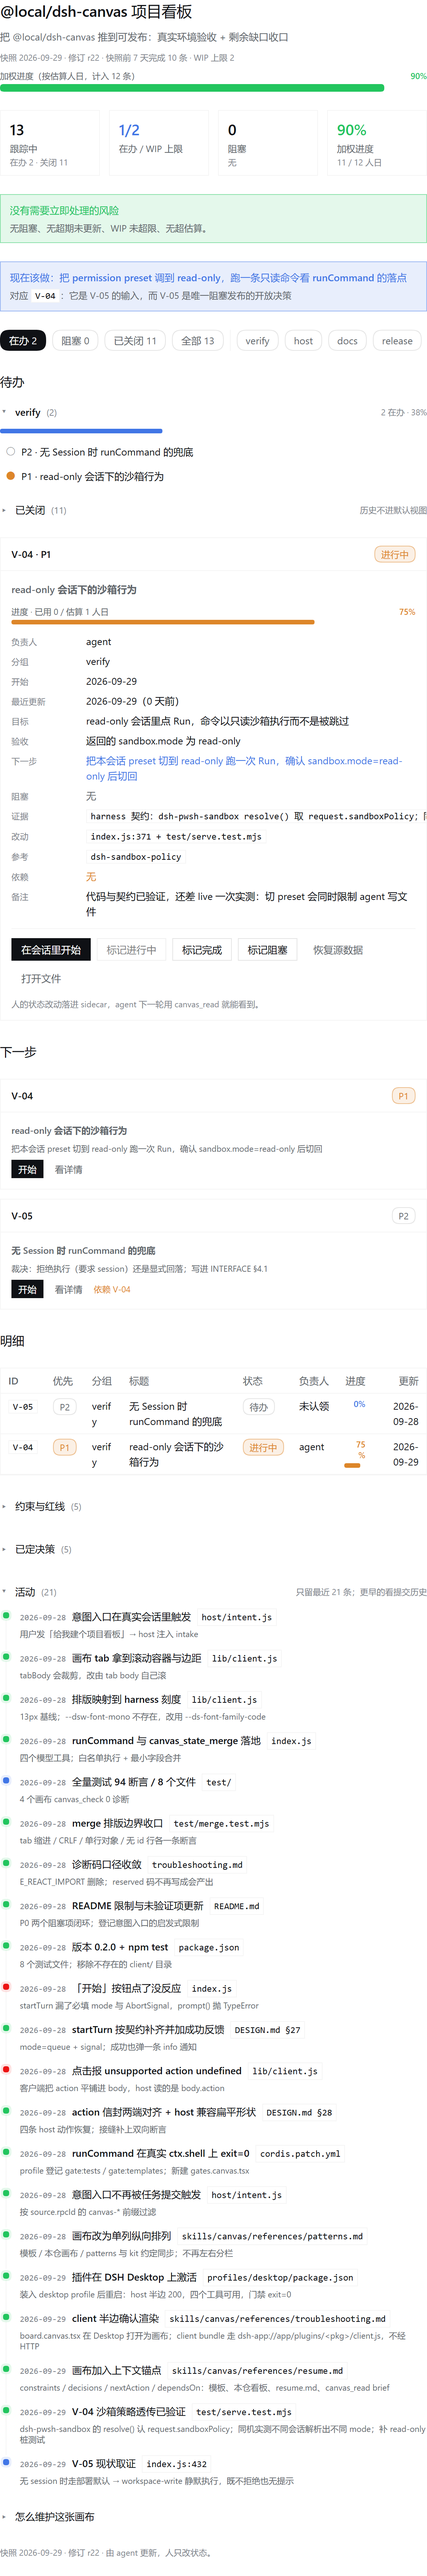
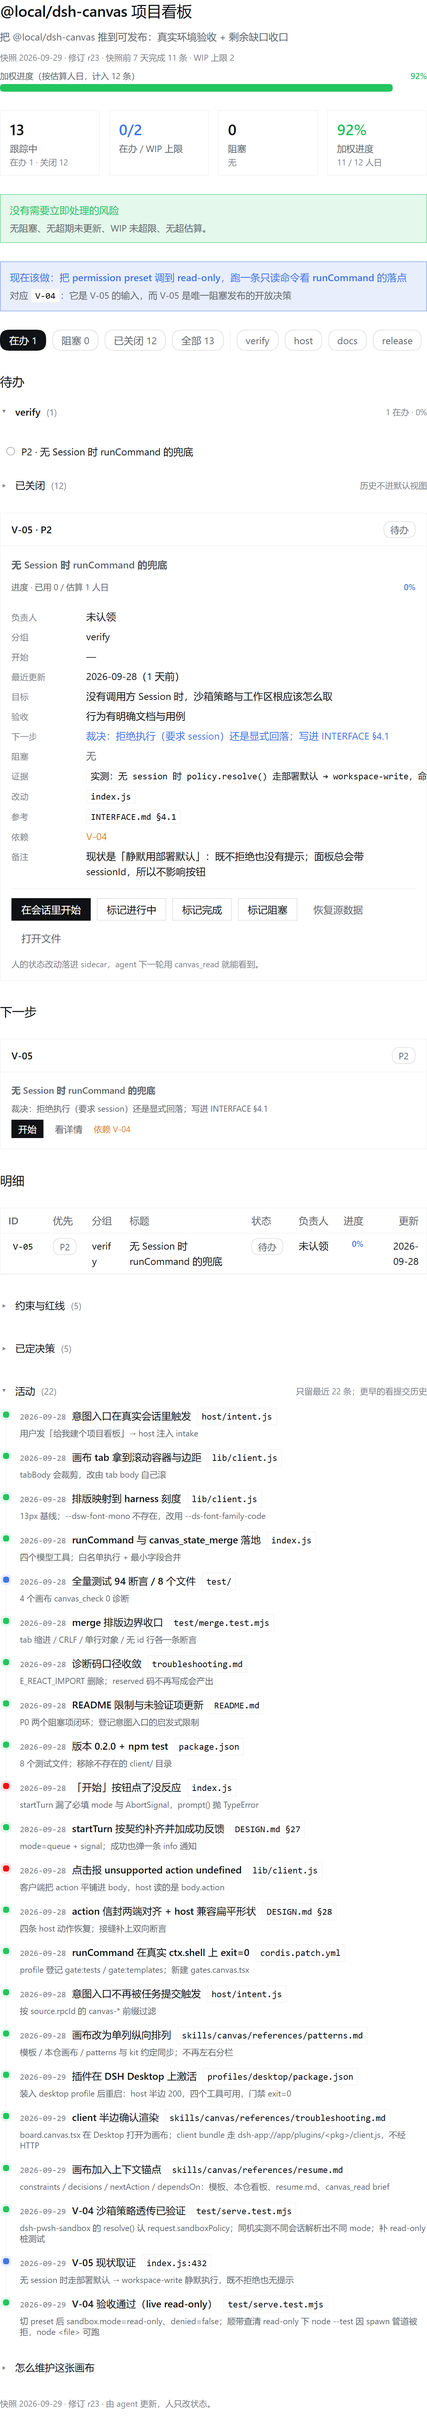
chore(board): V-04 验收通过（r23）+ 记录 read-only 沙箱边界
验收（live，非桩）：
- 把本会话 preset 切到 read-only 后，gate:templates 返回
  sandbox.mode=read-only、denied=false、ok=true、code=ran —— 命令确实被执行，不是被跳过
- 同一时刻宿主对我的文件写入报 [sandbox: file access denied under read-only mode]，
  说明插件与宿主用的是同一套会话策略，两侧一致

顺带查清一条边界（已写进 troubleshooting.md）：
- read-only 下 node --test 会 EPERM（syscall: spawn）：受限模式禁止命名管道，而测试运行器
  要 fork 子进程抓输出；这是沙箱边界，不是门禁失败
- 对照实测 node <file> 同进程直跑 exit=0，PowerShell 串多文件也能跑
- 因此把 gate:templates 的白名单命令从 node --test 改成 node（模板自检自带退出码，
  行为等价、read-only 下也能给出真实结论）；gate:tests 保持 --test
- Windows 上 stderr 的 GBK InvalidOperation + enforcement=partial 是 ACL 授权失败后降级继续

profile 改动（下次重启生效）：desktop 与 web 的 cordis.patch.yml 里 gate:templates 已改

diff --git a/board.canvas.tsx b/board.canvas.tsx
@@ -29,7 +29,7 @@ type Task = {
 export const DATA = {
   goal: "把 @local/dsh-canvas 推到可发布：真实环境验收 + 剩余缺口收口",
   asOf: "2026-09-29",
-  revision: "r22",
+  revision: "r23",
   wipLimit: 2,
   staleDays: 7,
   lanes: ["verify", "host", "docs", "release"],
@@ -99,14 +99,14 @@ export const DATA = {
     },
     {
       id: "V-04", lane: "verify", title: "read-only 会话下的沙箱行为",
-      status: "in_progress", priority: "P1", owner: "agent",
-      progress: 75, estimate: 1, actual: 0,
-      startedAt: "2026-09-29", updatedAt: "2026-09-29", completedAt: "", blocker: "",
+      status: "completed", priority: "P1", owner: "agent",
+      progress: 100, estimate: 1, actual: 1,
+      startedAt: "2026-09-29", updatedAt: "2026-09-29", completedAt: "2026-09-29", blocker: "",
       goal: "read-only 会话里点 Run，命令以只读沙箱执行而不是被跳过",
-      next: "把本会话 preset 切到 read-only 跑一次 Run，确认 sandbox.mode=read-only 后切回",
+      next: "",
       acceptance: "返回的 sandbox.mode 为 read-only",
-      evidence: "harness 契约：dsh-pwsh-sandbox resolve() 取 request.sandboxPolicy；同机实测不同会话解析出不同 mode；补 read-only 桩测试", write: "index.js:371 + test/serve.test.mjs",
-      ref: "dsh-sandbox-policy", note: "代码与契约已验证，还差 live 一次实测：切 preset 会同时限制 agent 写文件",
+      evidence: "live：会话切 read-only 后 gate:templates 返回 sandbox.mode=read-only、denied=false，命令真的起了（exit=1 是 EPERM spawn 边界，不是被跳过）", write: "index.js:371 + test/serve.test.mjs",
+      ref: "dsh-sandbox-policy", note: "read-only 下 node --test 会 EPERM（受限模式禁管道），node <file> 同进程可跑；宿主 enforcement=partial，stderr 有 ACL 噪音",
     },
     {
       id: "F-01", lane: "host", title: "startTurn 的真实 prompt 形状",
@@ -219,6 +219,7 @@ export const DATA = {
     { id: "a19", at: "2026-09-29", title: "画布加入上下文锚点", tone: "success", detail: "constraints / decisions / nextAction / dependsOn：模板、本仓看板、resume.md、canvas_read brief", ref: "skills/canvas/references/resume.md" },
     { id: "a20", at: "2026-09-29", title: "V-04 沙箱策略透传已验证", tone: "success", detail: "dsh-pwsh-sandbox 的 resolve() 认 request.sandboxPolicy；同机实测不同会话解析出不同 mode；补 read-only 桩测试", ref: "test/serve.test.mjs" },
     { id: "a21", at: "2026-09-29", title: "V-05 现状取证", tone: "info", detail: "无 session 时走部署默认 → workspace-write 静默执行，既不拒绝也无提示", ref: "index.js:432" },
+    { id: "a22", at: "2026-09-29", title: "V-04 验收通过（live read-only）", tone: "success", detail: "切 preset 后 sandbox.mode=read-only、denied=false；顺带查清 read-only 下 node --test 因 spawn 管道被拒，node <file> 可跑", ref: "test/serve.test.mjs" },
   ],
 } as const;
 

diff --git a/skills/canvas/references/troubleshooting.md b/skills/canvas/references/troubleshooting.md
@@ -290,3 +290,30 @@ Get-ChildItem $ud | Where-Object { [System.IO.File]::ReadAllText($_.FullName) -m
 
 命中的文件里能看到 `dsh-app://app/plugins/@local/dsh-canvas/client.js`，与官方客户端插件排列在同一批 URL 中——这就是"client 半边已经在跑"的直接证据。
 
+---
+
+## 会话是 read-only 时，门禁为什么红
+
+受限模式下程序**不能开命名管道**。`node --test` 要为每个测试文件 fork 子进程并抓输出（默认 `stdio: 'pipe'`），于是命令自己起不来：
+
+~~~text
+EPERM ... syscall: 'spawn'
+~~~
+
+**这不是门禁失败，是沙箱边界。** 看返回的 `sandbox` 就能分清：
+
+| 返回 | 含义 |
+|---|---|
+| `mode: "read-only"` + `ok: true` + `code: "ran"` | 会话策略透传正确，命令**确实被执行**（`denied: false` 表示不是被拒） |
+| `exitCode: 1` 且 stderr 有 `EPERM` / `spawn` | 命令自己起不来，多半是这条边界 |
+| `denied: true` | 真的被沙箱拒绝执行 |
+
+规避（代价从低到高）：
+
+1. **别用 read-only 会话判门禁** —— 门禁要的是真实退出码，而 read-only 会改变命令能否运行；
+2. **白名单里用同进程形式**：`node test/x.test.mjs` 直跑（自检脚本自带退出码）不需要 fork，read-only 下也能给出真实结论；`node --test` 不行；
+3. **会写临时目录的用例**在 read-only 下必然失败（沙箱连 `%TEMP%` 也拦），这类门禁只能在可写会话里跑。
+
+> Windows 上还可能看到 stderr 里有 GBK 乱码的 `InvalidOperation`，同时 `sandbox.enforcement` 为 `partial`：那是沙箱包装器给工作区授 ACL 失败后**降级继续**，命令本身照跑，与插件无关。
+
+
